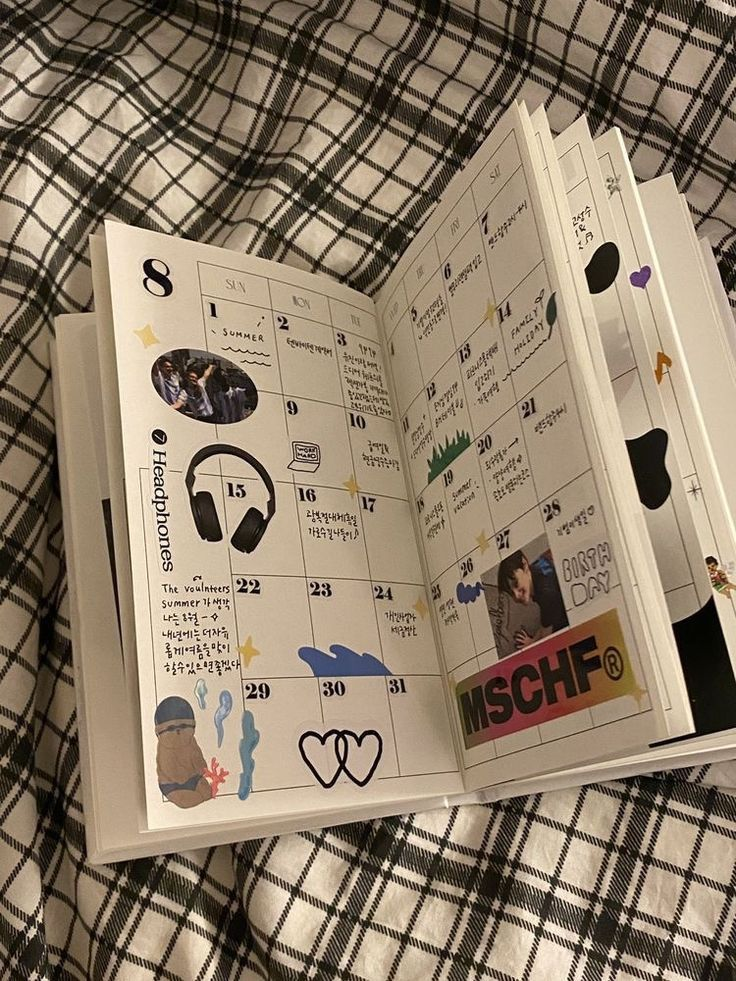
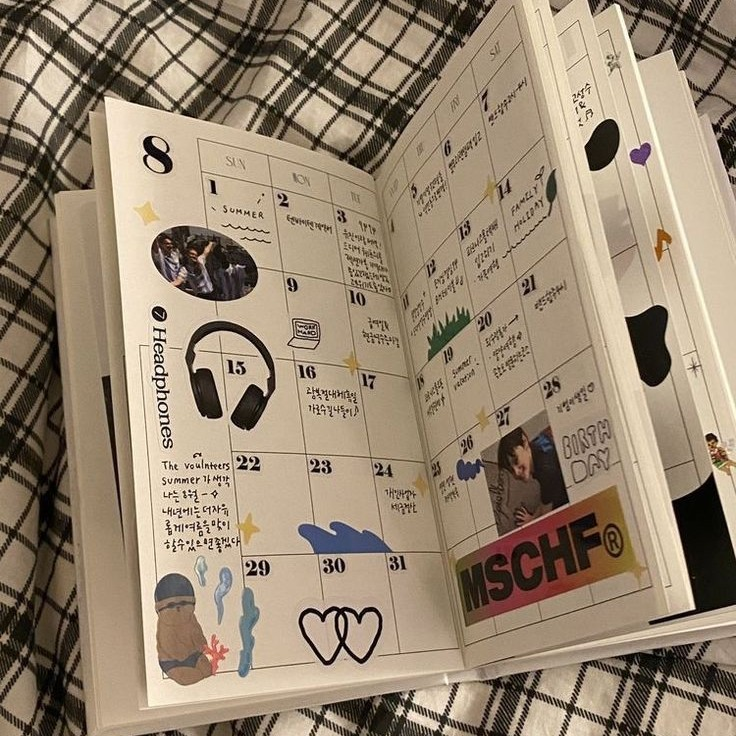
further work: cropped images, added buttons, created new page for later

diff --git a/bookstore.html b/bookstore.html
@@ -4,17 +4,33 @@
         <title>Bookstore</title>
         <style>
             @media (max-width: 768px) {}
-            body {background-color: rgb(221, 185, 221);}
+            body {background-color: rgb(221, 185, 221)}
             h1 {color: indigo; font-family: 'Courier New', Courier, monospace; text-align: center; font: bold}
             h2 {color: darkorchid; font-family: 'Courier New', Courier, monospace; text-align: center; font: bold}
-            p {color: olive; font-family:'Courier New', Courier, monospace;}
-            p1 {color: olive; font-family:'Courier New', Courier, monospace; font-weight: 900; font-size: large}
+            p {color: olive; font-family:'Courier New', Courier, monospace; text-align: center; font-size: large;}
             p2 {color: midnightblue; font-family: 'Courier New', Courier, monospace;}
+            pbold {font-weight: bolder;}
+            pb {color: darkslateblue; text-align: center; font-family: 'Courier New', Courier, monospace; font-weight: bolder; font-size: larger;}
             .product-photos {
                 display: flex;
                 justify-content: space-between;
                 justify-content: space-evenly;
-                justify-content: space-around;
+                img {border:darkslateblue; border-style: dashed; border-width: 3px;}
+            }
+            .category-buttons {
+                display: flex;
+                justify-content: space-between;
+                justify-content: space-evenly;
+                button {
+                    width: 200px; height: 50px; 
+                    border-color: darkslateblue;
+                    border-style: dashed;
+                    border-width: 3px;
+                    background-color: lightsalmon;
+                }
+                button:hover {
+                    background-color: rgb(255, 121, 68);
+                }
             }
         </style>
     </head>
@@ -23,25 +39,35 @@
         <header>
             <h1> &lt;3 Welcome to the Bookstore :3</h1>
             <br/>
-            <p1>Here you can buy books and more!</p1>
+            <p> <pbold>Here you can buy books and more!</pbold> Check out the catalogue below:</p>
         </header>
-        <article>
-            <p>Check out the catalogue below:</p>
-        </article>
         </br>
         <section>
             <h2>Offered products:</h2>
-            <div class="product-photos">
-                <img src="images/books.jpg" height="200" alt="Books">
-                <img src="images/notebook.jpg" height="200" alt="Notebooks">
-                <img src="images/postcards.jpg" height="200" alt="Postcards">
-                <style>
-                    img {border:darkslateblue; border-style: dashed}
-                </style>
-            </div>
-            <div class="category-buttons">
-
-            </div>
+            <div class="products">
+                <div class="product-photos">
+                    <div class="books">
+                        <img src="images/books.jpg" height="200" title="Books">
+                    </div>
+                    <div class="notebooks">
+                        <img src="images/notebook.jpg" height="200" title="Notebooks">
+                    </div>
+                    <div class="postcards">
+                        <img src="images/postcards.jpg" height="200" title="Postcards">
+                    </div>
+                </div>
+                <div class="category-buttons">
+                    <button class="to-books">
+                        <pb>Go to Books</pb>
+                    </button>
+                    <button class="to-notebooks">
+                        <pb>Go to Notebooks</pb>
+                    </button>
+                    <button class="to-postcards">
+                        <pb>Go to Postcards</pb>
+                    </button>
+                </div>
+            <div>
         </section>
         </br>
         <section>

diff --git a/books.html b/books.html
@@ -1,0 +1,6 @@
+<!DOCTYPE html>
+<html>
+    <head>
+        <title>Books</title>
+    </head>
+</html>
